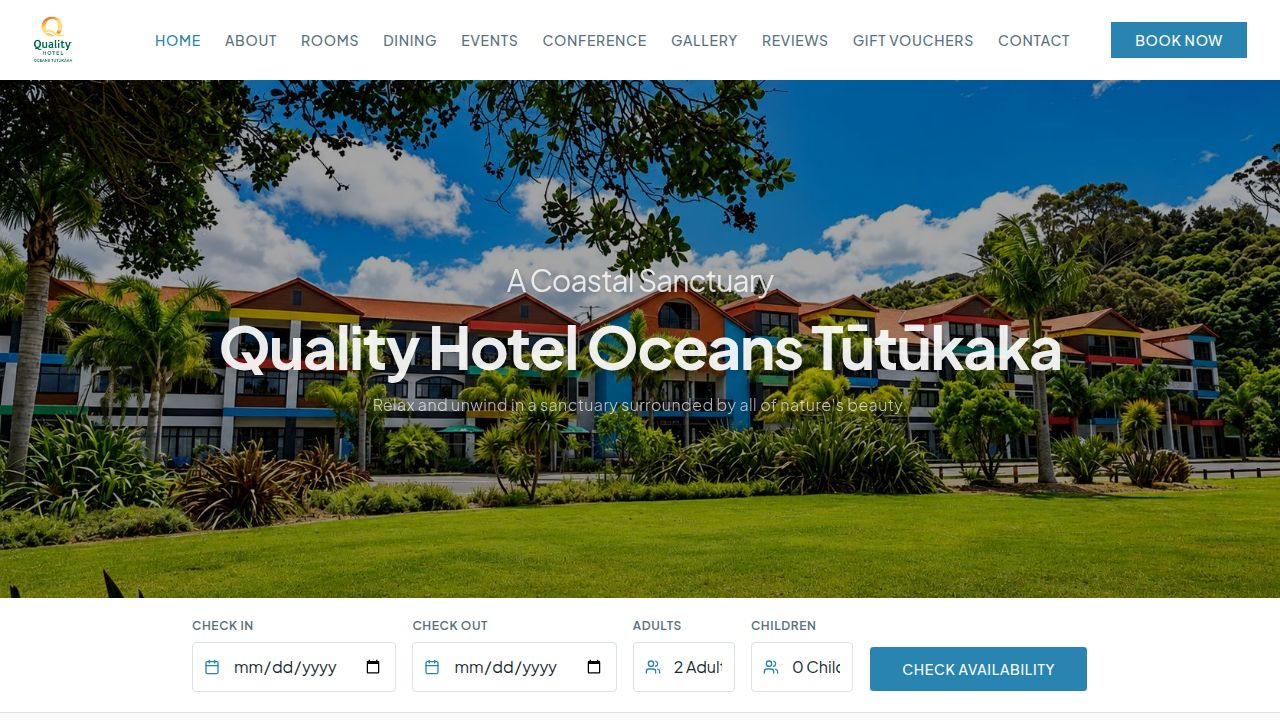
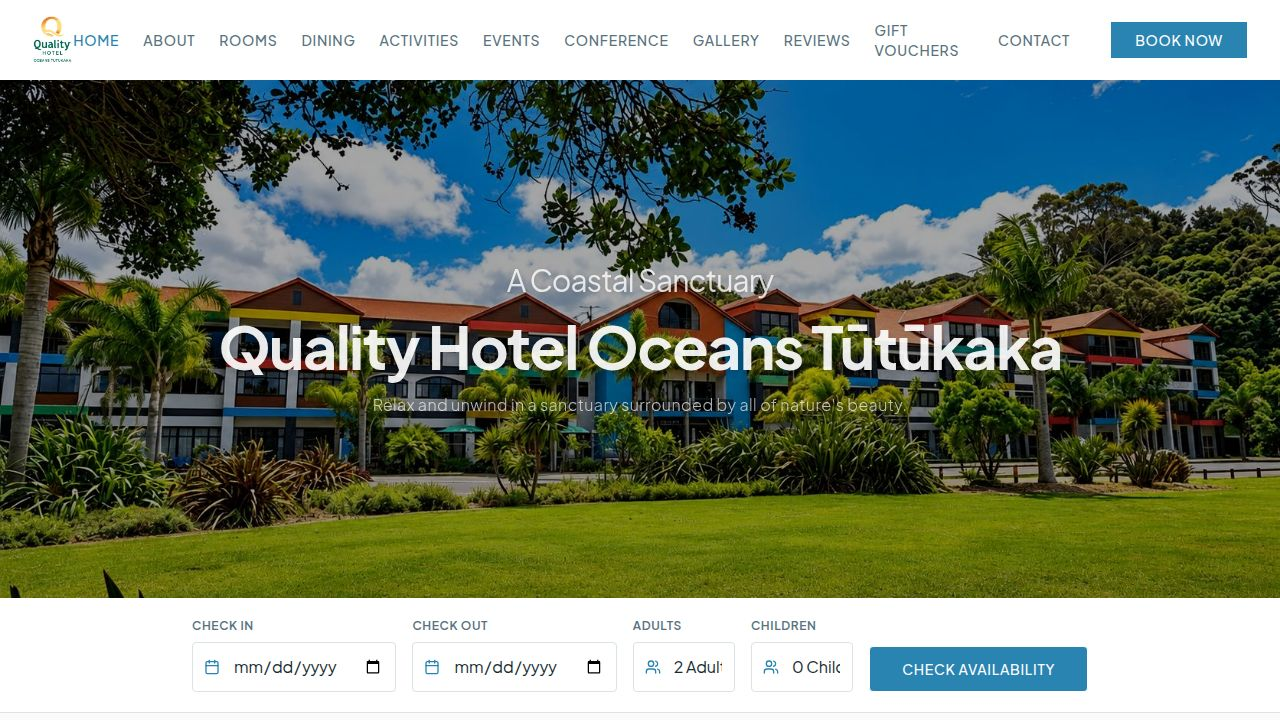
Update site: assets/index-D0yNZ6ta.js, assets/index-DE5b0jfU.css, images/bay-boats-aerial.jpg, images/hotel-aerial-marina.jpg, images/hotel-aerial-market.jpg, images/marina-aerial-full.jpg, images/matariki-housie-event-1.jpg, images/matariki-housie-event-10.jpg, images/matariki-housie-event-11.jpg, 

Changed region(s): [[0.0312, 0.0306, 0.75, 0.0917]]

diff --git a/index.html b/index.html
@@ -17,8 +17,8 @@
     <link rel="preconnect" href="https://fonts.googleapis.com">
     <link rel="preconnect" href="https://fonts.gstatic.com" crossorigin>
     <link href="https://fonts.googleapis.com/css2?family=Inter:wght@400;500;600;700&display=swap" rel="stylesheet">
-    <script type="module" crossorigin src="/assets/index-CGI-w_S2.js"></script>
-    <link rel="stylesheet" crossorigin href="/assets/index-BxwOGUdn.css">
+    <script type="module" crossorigin src="/assets/index-D0yNZ6ta.js"></script>
+    <link rel="stylesheet" crossorigin href="/assets/index-DE5b0jfU.css">
   </head>
   <body>
     <div id="root"></div>